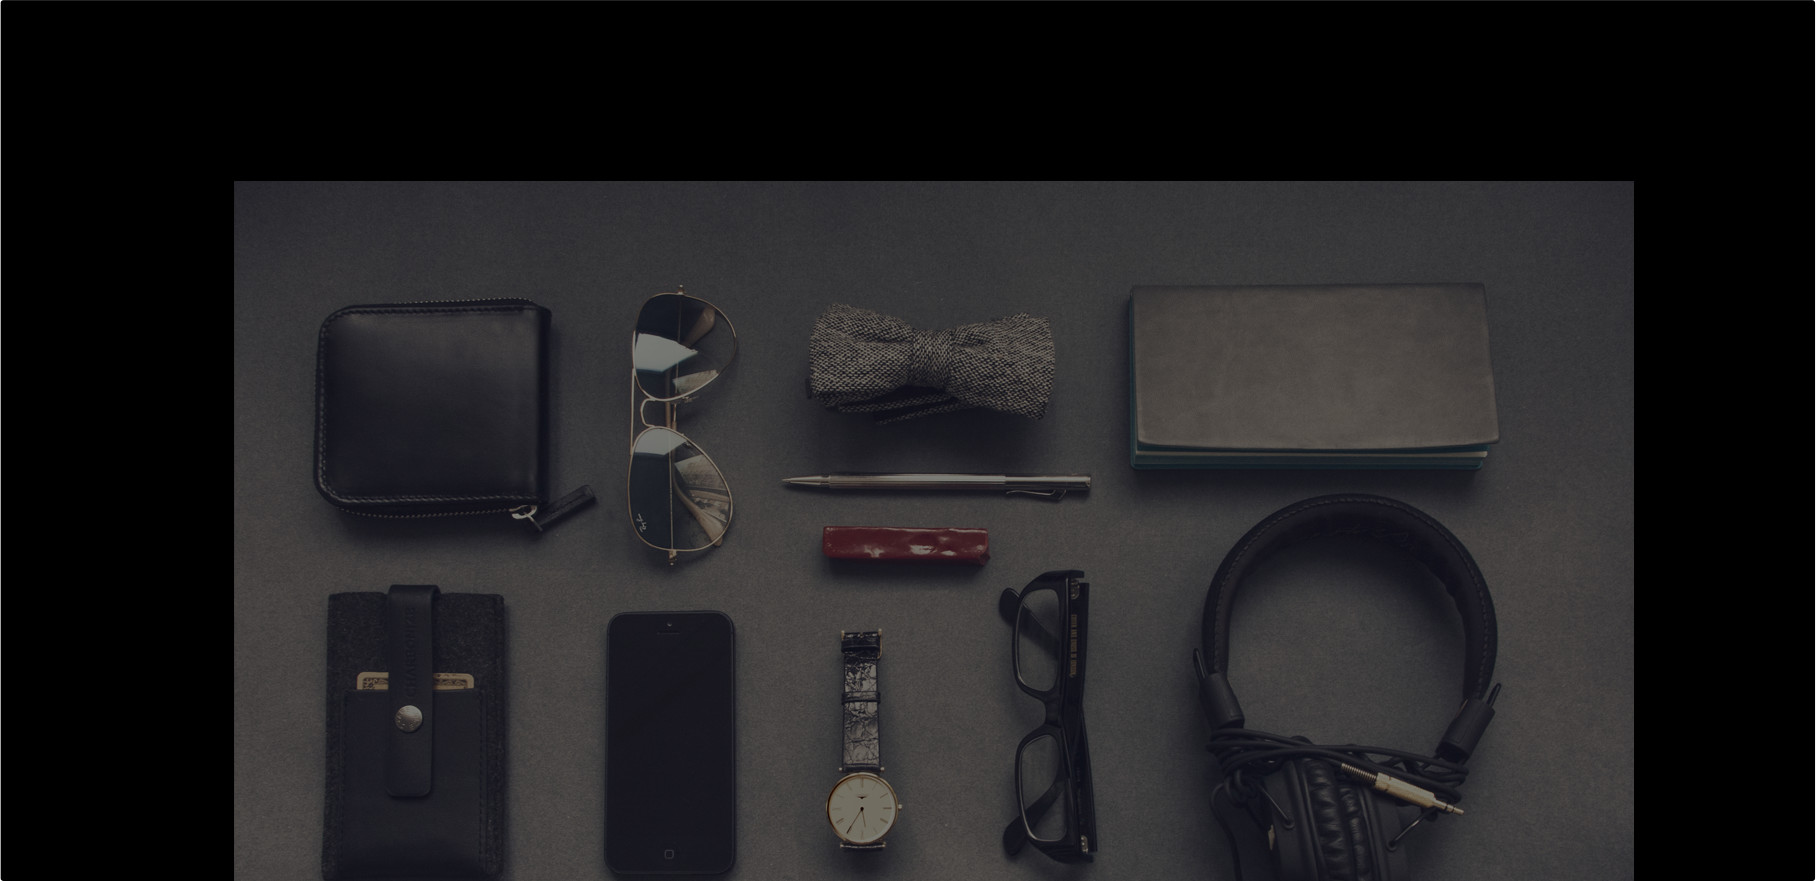
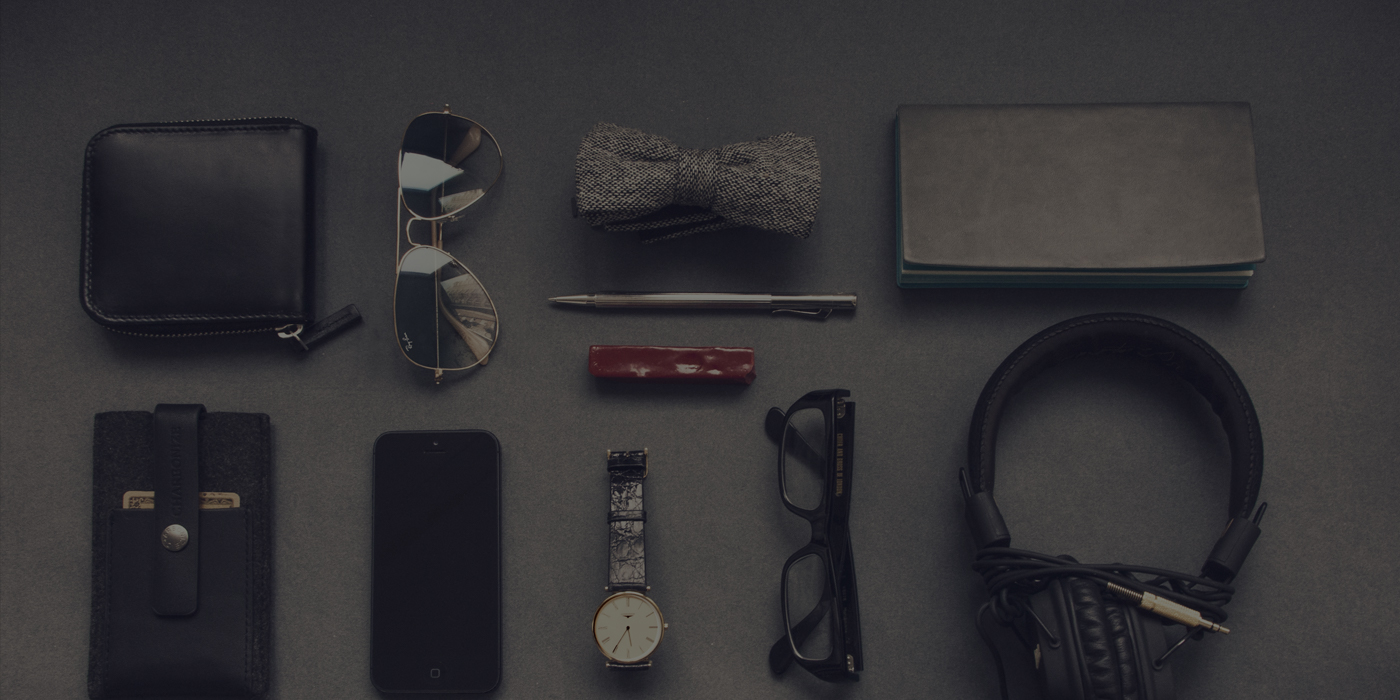
heading is done

diff --git a/css/style.css b/css/style.css
@@ -1,0 +1,48 @@
+* {
+  margin: 0;
+  padding: 0;
+  font-family: Arial, Helvetica, sans-serif;
+}
+
+div {
+  box-sizing: border-box;
+}
+
+header {
+  background: url(../img/first-bg.jpg) no-repeat center top/cover;
+  height: 600px;
+}
+
+.container {
+  width: 930px;
+  margin: 0 auto;
+}
+
+.logo {
+  margin-top: 42px;
+  float: left;
+}
+
+nav {
+  float: right;
+}
+
+.menu {
+  padding: 0;
+  margin: 0;
+  display: block;
+  margin-top: 53px;
+}
+
+.menu li {
+  float: left;
+  display: block;
+}
+
+.menu li a {
+  text-decoration: none;
+  color: #fff;
+  text-transform: uppercase;
+  margin-right: 41px;
+  ]
+}

diff --git a/index.html b/index.html
@@ -10,6 +10,7 @@
     <header>
       <div class="container">
         <div class="heading">
+          <img src="img/logo.png" alt="Golden Logo" class="logo" />
           <nav>
             <ul class="menu">
               <li>
